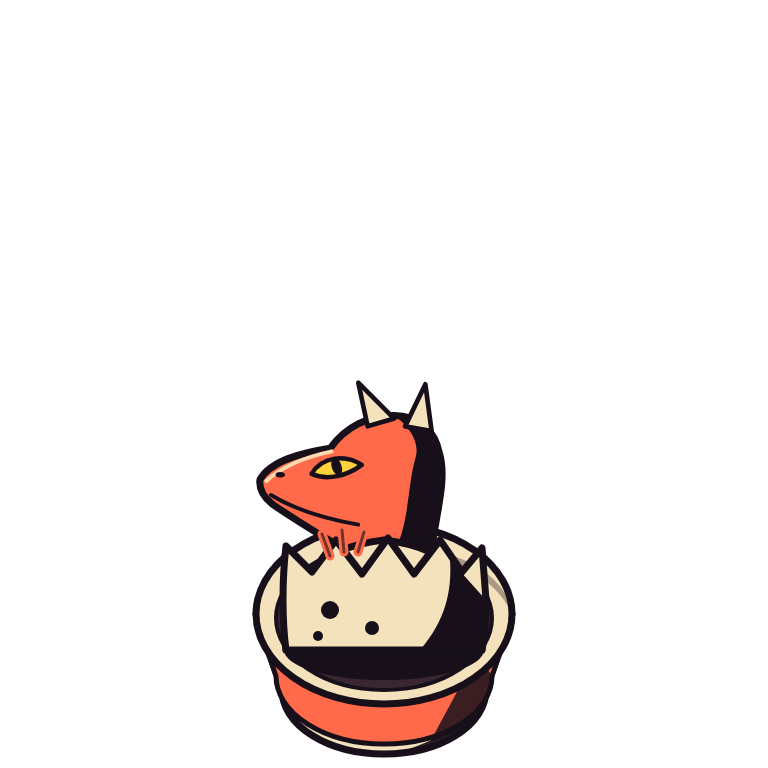
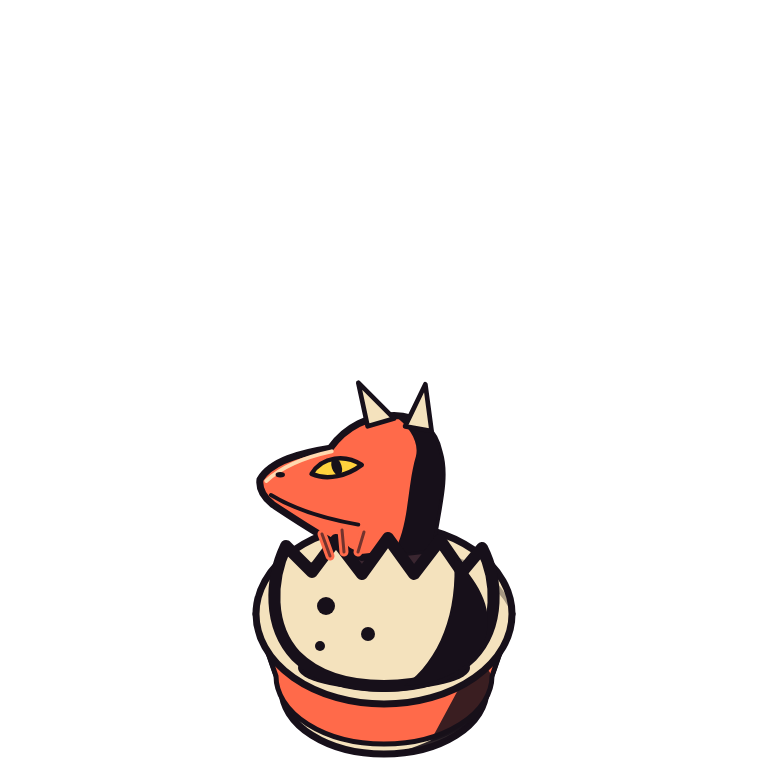
art-src: 龍 v5 — 加粗外輪廓強化剪影、翅膀下移、背刺減量、蛋殼底部圓潤
Claude-Session: https://claude.ai/code/session_01YcRvipXLdSARSXJBNmnAqn

Changed region(s): [[0.3438, 0.6875, 0.6562, 0.9062]]

diff --git a/art-src/dragon/build.js b/art-src/dragon/build.js
@@ -1,7 +1,8 @@
 // 龍的造型（向量，Mignola 風：硬邊大黑影、粗輪廓、極少色塊）。node art-src/dragon/build.js → art-src/out/dragon_t*.svg
 const fs = require('fs'), path = require('path');
 const INK = '#17101a', RED = '#ff6a4a', RED2 = '#c9402c', CREAM = '#f4e2bd', GOLD = '#ffc23d', GOLD2 = '#c98a14', EYE = '#ffd23d';
-const OL = 7;                                            // 輪廓粗細
+const OL = 7;
+const SIL = 16;                                         // 外輪廓（剪影線）：比內線粗，讓重疊的形狀分得開                                            // 輪廓粗細
 const A = { x: 384, y: 690 };                           // 錨點
 const RIM = { cx: 384, cy: 614, rx: 128, ry: 90 };      // 杯口橢圓
 
@@ -25,14 +26,15 @@ const HEAD = 'M196,330 C212,308 244,298 274,290 C296,262 322,246 352,242 C380,24
   + 'L312,650 C290,610 288,560 320,520 C352,482 370,452 362,420 C356,402 346,396 336,394 '
   + 'C300,390 250,374 214,354 C202,348 194,340 196,330 Z';
 const BELLY = 'M312,650 C290,610 288,560 320,520 C352,482 370,452 362,420 C356,402 346,396 336,394 L344,392 C388,410 404,452 392,476 C370,512 330,560 352,650 Z';
-const NECK_SPINES = [[446, 322], [462, 360], [464, 400], [452, 440], [438, 480], [432, 520], [440, 560], [456, 600]]
-  .map(([x, y], i) => { const s = 1 - i * 0.05; return `<path d="M${x - 6},${y - 16 * s} L${x + 32 * s},${y + 4} L${x - 6},${y + 20 * s} Z" fill="${RED2}" stroke="${INK}" stroke-width="5" stroke-linejoin="round"/>`; }).join('');
-const horn = (d, w = OL) => `<path d="${d}" fill="${CREAM}" stroke="${INK}" stroke-width="${w}" stroke-linejoin="round"/>`;
+const NECK_SPINES = [[452, 336], [462, 404], [440, 474], [436, 540]]
+  .map(([x, y], i) => { const s = 1.25 - i * 0.12; return `<path d="M${x - 6},${y - 16 * s} L${x + 32 * s},${y + 4} L${x - 6},${y + 20 * s} Z" fill="${RED2}" stroke="${INK}" stroke-width="5" stroke-linejoin="round"/>`; }).join('');
+const horn = (d, w = OL) => `<path d="${d}" fill="none" stroke="${INK}" stroke-width="${SIL}" stroke-linejoin="round"/><path d="${d}" fill="${CREAM}" stroke="${INK}" stroke-width="${w}" stroke-linejoin="round"/>`;
 const hornShadow = (d) => `<path d="${d}" fill="${INK}" opacity=".55"/>`;
 
 function head({ clipId, eyeScale = 1, mouth = 'smile' }) {
   return `
   <clipPath id="${clipId}"><path d="${HEAD}"/></clipPath>
+  <path d="${HEAD}" fill="none" stroke="${INK}" stroke-width="${SIL}" stroke-linejoin="round"/>
   <path d="${HEAD}" fill="${RED}"/>
   <g clip-path="url(#${clipId})">
     <!-- 腹甲（沿著 S 形的喉嚨與胸口）-->
@@ -72,10 +74,10 @@ function wing(k = 1) {
     + 'C482,380 474,362 470,346 '                                                                      // 內凹缺口 → 拇爪
     + 'C478,318 490,290 508,262 Z';
   const shade = 'M508,262 C548,262 590,292 608,332 C626,372 636,404 634,432 C632,470 622,500 608,528 C606,494 604,462 602,436 C584,486 556,548 530,598 C546,500 540,380 508,262 Z';
-  return `<g transform="translate(470 566) scale(${k}) translate(-452 -560)">
-    <path d="M452,540 L470,346" stroke="${INK}" stroke-width="17" stroke-linecap="round"/><path d="M452,540 L470,346" stroke="${RED}" stroke-width="7" stroke-linecap="round"/>
+  return `<g transform="translate(486 626) scale(${k}) translate(-452 -560)">
+    <path d="${mem}" fill="none" stroke="${INK}" stroke-width="${SIL}" stroke-linejoin="round"/>
     <path d="${mem}" fill="${RED2}" stroke="${INK}" stroke-width="${OL}" stroke-linejoin="round"/>
-    <path d="${shade}" fill="${INK}" opacity=".5"/>
+    <path d="${shade}" fill="${INK}" opacity=".38"/>
     <path d="M${W} C532,380 534,480 530,598 M${W} C520,360 506,450 493,528 M${W} C580,330 612,420 608,528" fill="none" stroke="${INK}" stroke-width="6" stroke-linecap="round"/>
     <path d="M${W} C530,380 532,480 529,590 M${W} C518,360 505,450 494,520" fill="none" stroke="${RED}" stroke-width="2" stroke-linecap="round" opacity=".8"/>
     <path d="M470,346 L462,326 L476,334 Z" fill="${CREAM}" stroke="${INK}" stroke-width="3" stroke-linejoin="round"/>
@@ -92,7 +94,7 @@ const t3 = () => `${cup()}${plinth}${wing(0.78)}${NECK_SPINES}${head({ clipId: '
 const t1 = () => {
   const shell = 'M286,650 C282,590 312,548 384,540 C456,548 486,590 482,650 Z';
   return `${cup()}
-  <ellipse cx="384" cy="650" rx="100" ry="30" fill="${INK}"/>
+  <ellipse cx="384" cy="668" rx="86" ry="22" fill="${INK}"/>
   <!-- 小龍頭（探出殼外）-->
   <g transform="translate(104 222) scale(.78)">
     <path d="M200,330 C214,306 252,296 290,290 C310,262 340,248 372,248 C402,248 424,266 430,296 C440,330 426,372 420,420 L330,430 C296,414 252,386 216,362 C206,354 198,344 200,330 Z" fill="${RED}" stroke="${INK}" stroke-width="${OL + 2}" stroke-linejoin="round"/>
@@ -104,10 +106,9 @@ const t1 = () => {
     <path d="M338,262 L326,206 L372,252 Z M386,262 L412,208 L420,268 Z" fill="${CREAM}" stroke="${INK}" stroke-width="6" stroke-linejoin="round"/>
   </g>
   <!-- 蛋殼 -->
-  <path d="${shell}" fill="${CREAM}" stroke="${INK}" stroke-width="${OL}" stroke-linejoin="round"/>
-  <path d="M286,546 L312,572 L336,540 L362,574 L388,538 L414,574 L440,540 L462,572 L482,548 L486,600 C486,620 484,640 482,650 L286,650 C282,620 282,580 286,546 Z" fill="${CREAM}" stroke="${INK}" stroke-width="${OL}" stroke-linejoin="round"/>
-  <path d="M450,560 L486,600 C486,630 484,642 482,650 L420,650 C446,620 452,590 450,560 Z" fill="${INK}"/>
-  <circle cx="330" cy="610" r="9" fill="${INK}"/><circle cx="372" cy="628" r="7" fill="${INK}"/><circle cx="318" cy="636" r="5" fill="${INK}"/>
+  <path d="M286,546 L312,572 L336,540 L362,574 L388,538 L414,574 L440,540 L462,572 L482,548 C498,580 500,626 472,656 C448,680 414,686 384,686 C354,686 320,680 296,656 C268,626 270,580 286,546 Z" fill="${CREAM}" stroke="${INK}" stroke-width="${SIL - 4}" stroke-linejoin="round"/>
+  <path d="M454,556 C476,580 494,606 486,636 C476,668 440,684 404,686 C440,660 458,612 454,556 Z" fill="${INK}"/>
+  <circle cx="326" cy="606" r="9" fill="${INK}"/><circle cx="368" cy="634" r="7" fill="${INK}"/><circle cx="320" cy="646" r="5" fill="${INK}"/>
   <!-- 扒在殼邊的小爪 -->
   <path d="M330,556 L322,534 M344,552 L342,530 M358,552 L364,532" stroke="${RED}" stroke-width="9" stroke-linecap="round"/>
   <path d="M330,556 L322,534 M344,552 L342,530 M358,552 L364,532" stroke="${INK}" stroke-width="3" stroke-linecap="round" opacity=".6"/>`;
